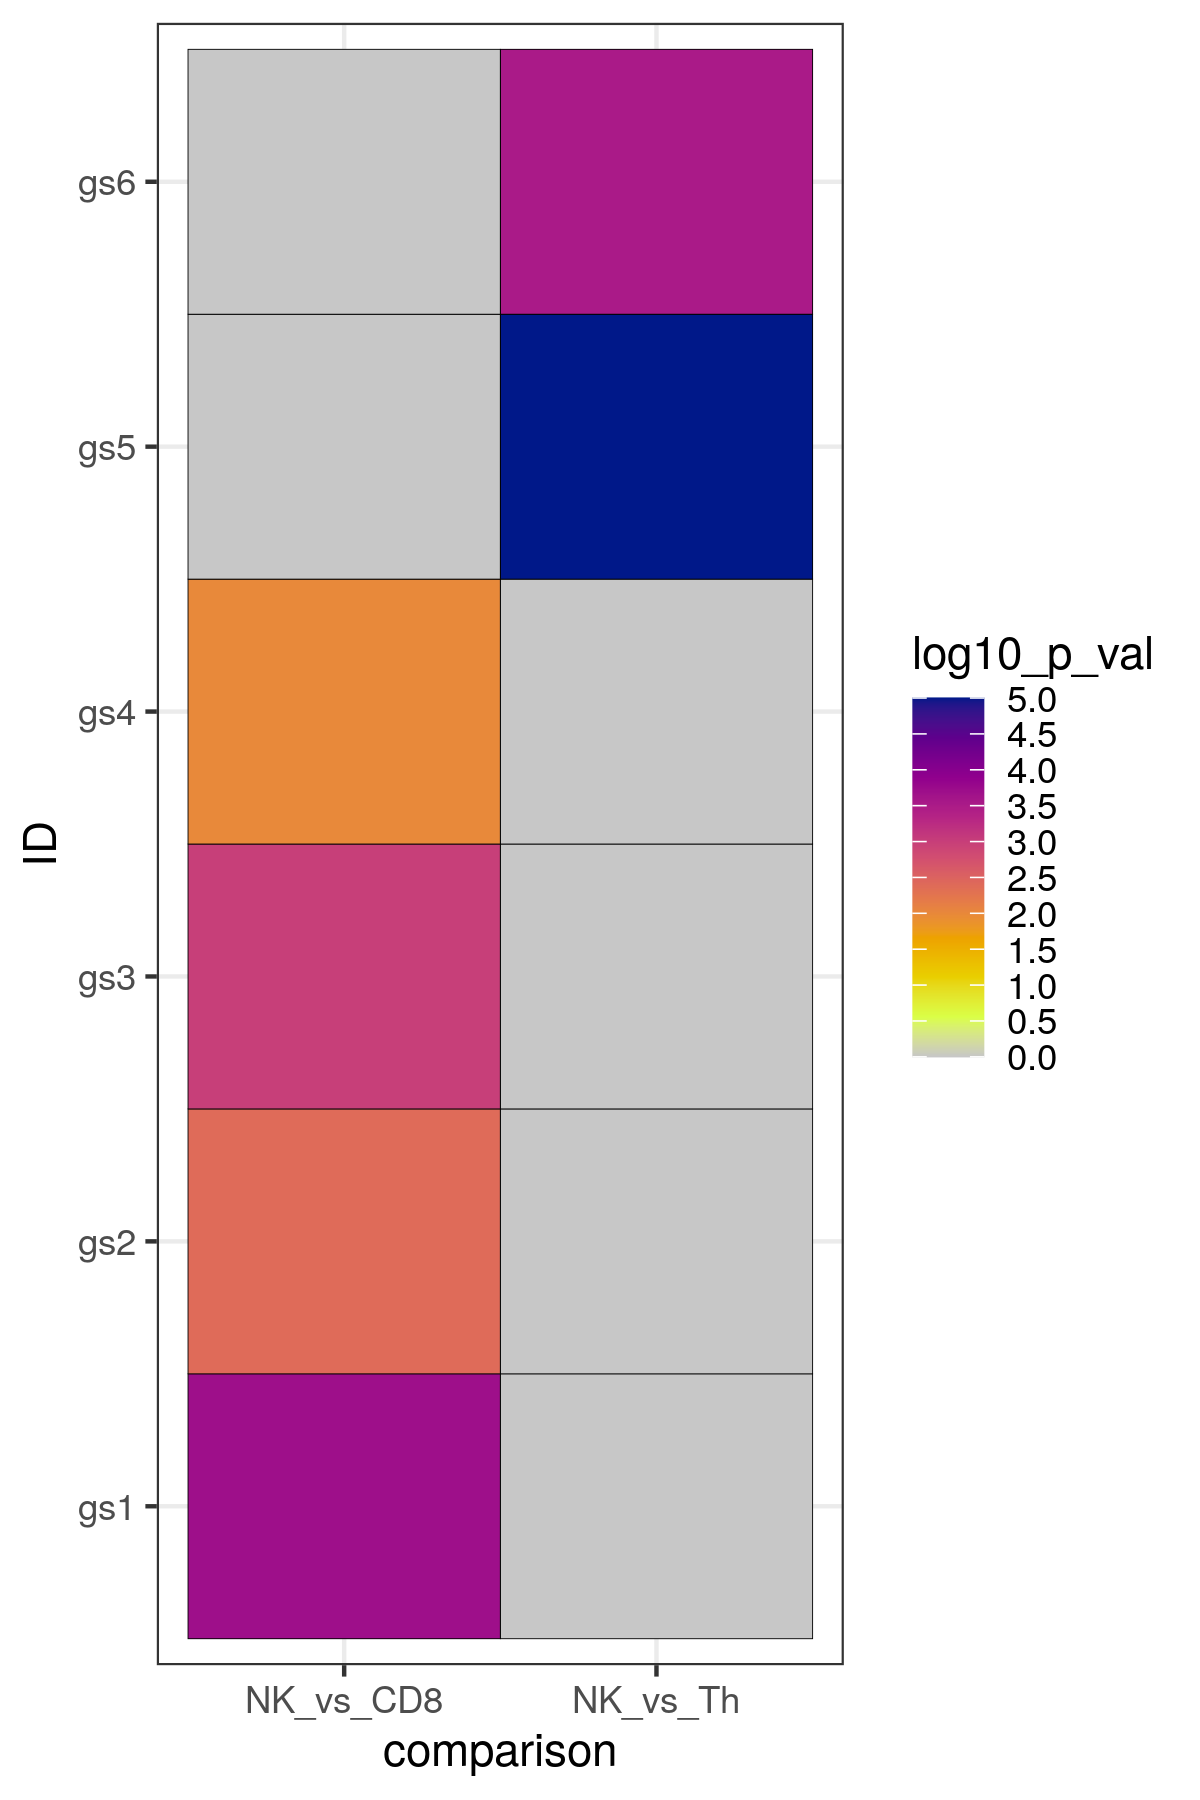
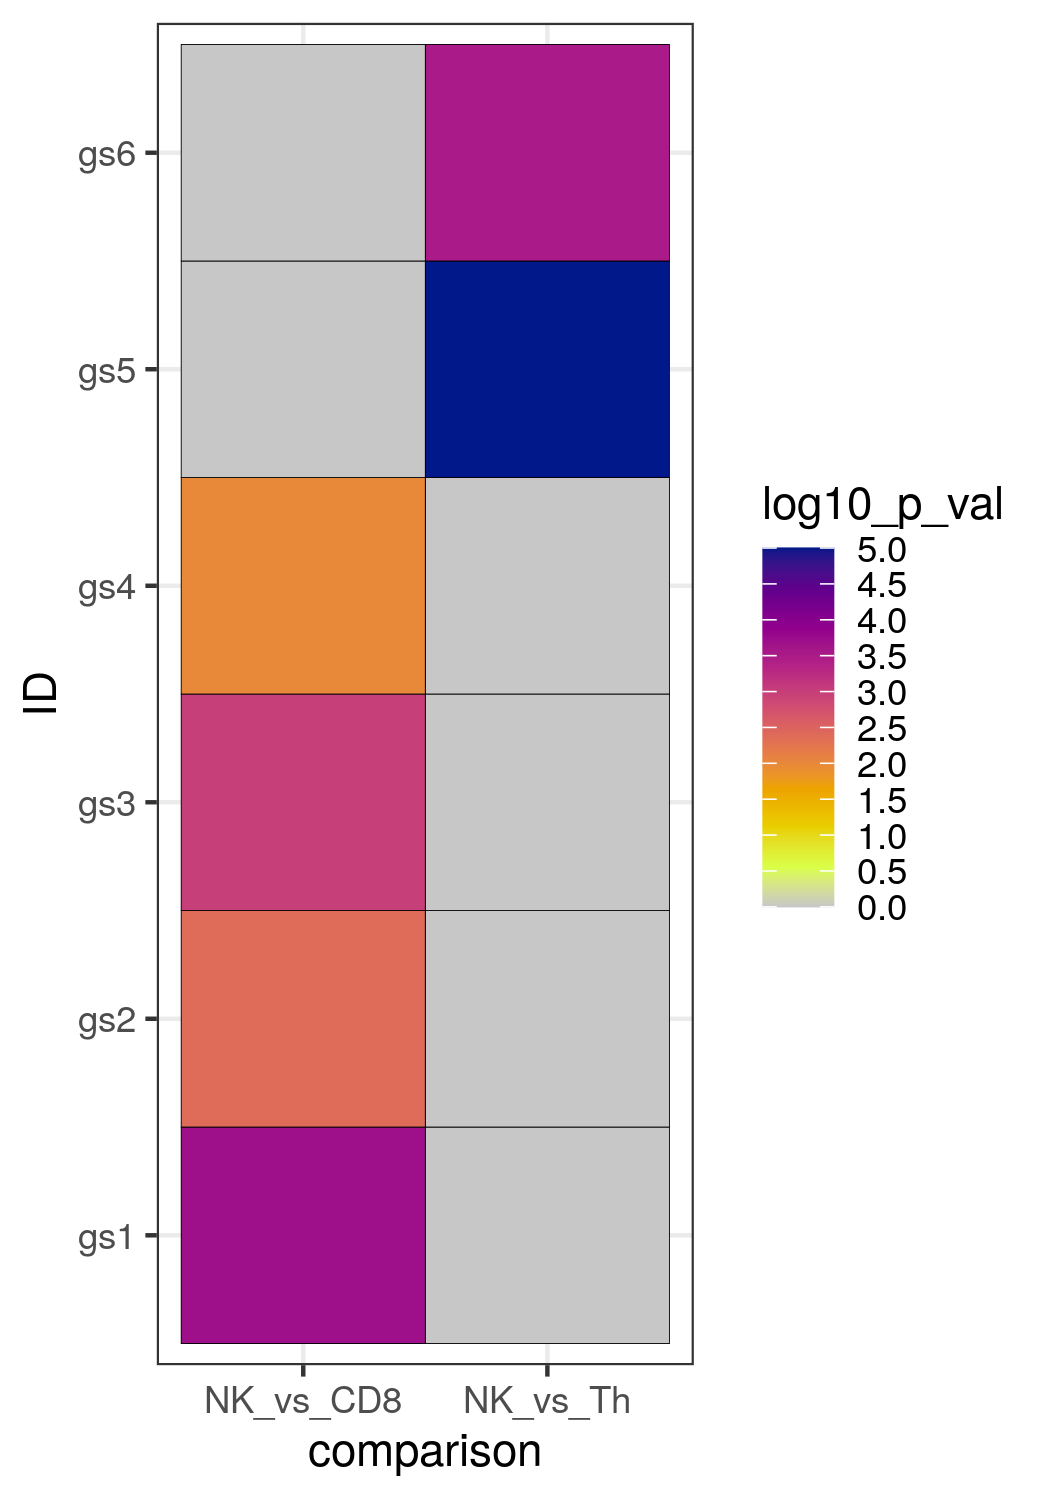
Deployed 86f64bf with MkDocs version: 1.1.2

Changed region(s): [[0.061, 0.0, 0.9752, 0.9813], [0.0, 0.4293, 0.061, 0.4907]]

diff --git a/exercises/index.html b/exercises/index.html
@@ -996,7 +996,7 @@ required for ggplot2.</p>
 </code></pre></div>
 <p>You will obtain the following heatmap:</p>
 <figure>
-  <img src="assets/images/heatmap_p_value_ORA.png" width="20"/>
+  <img src="../assets/images/heatmap_p_value_ORA.png" width="300"/>
 </figure>
                 
               
